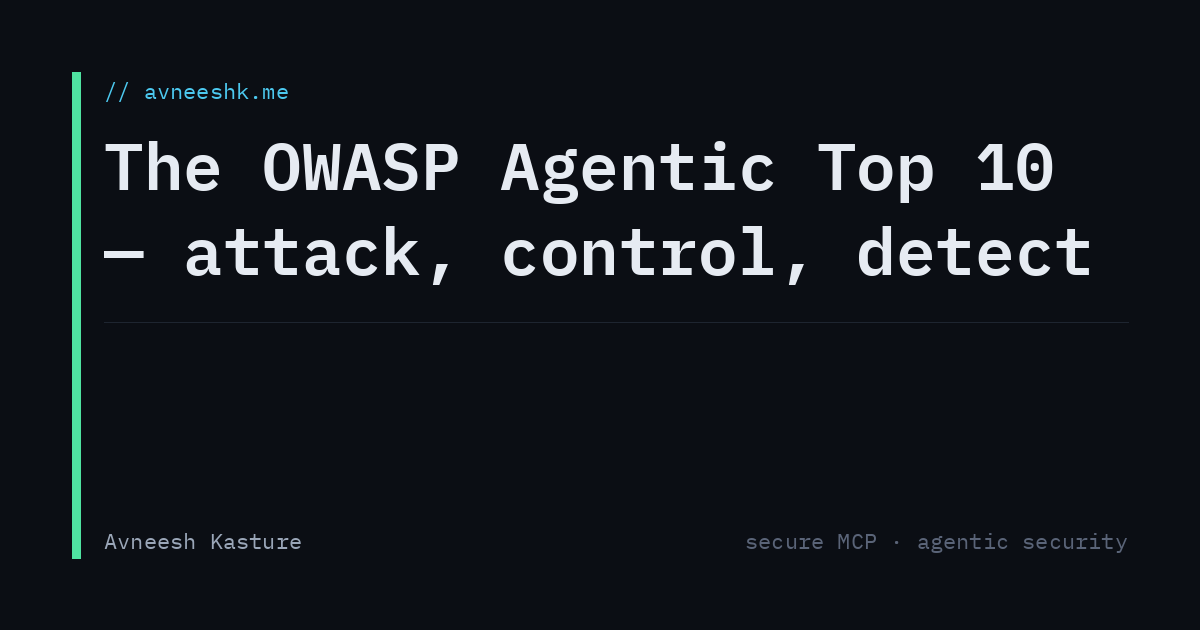
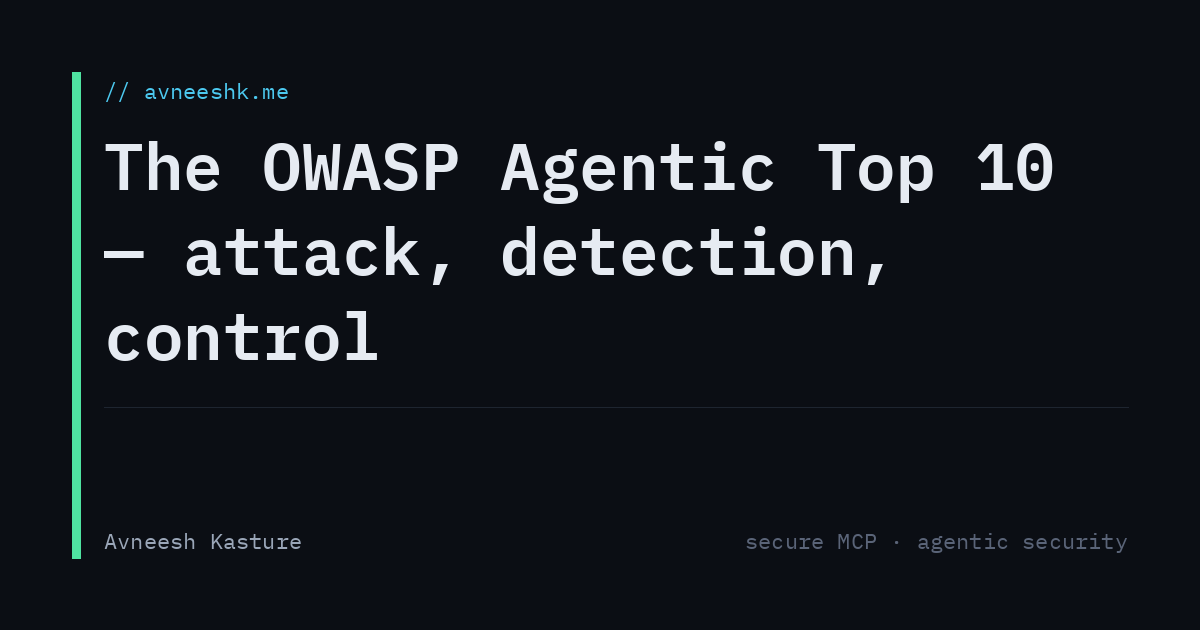
Audit round 2 fixes: consistency, a11y, dead CSS
All minor/nit findings from the second review pass (verdict was SHIP-CLEAN —
no blockers/majors). Fixes:

- OWASP: title and H1 said "attack, control, detection" but the rotation order
  is attack → detection → control. Aligned both (+ regenerated the OG card).
- OWASP a11y: the only tab stop (.asi-turn) named just the next action, so a
  screen-reader user never heard the visible face on focus. Added
  aria-describedby pointing at the current face's text, updated on rotate.
  Stale "keyboard-operable button" CSS comment fixed (it's an article now).
- Game: switching rungs mid-run cleared the console and made the in-flight
  result get labelled/recorded under the new rung. selectRung now no-ops while
  a run is in flight. Stale header comment (approval_code=APPROVED → RMA-4471).
- Copy: dropped the third "0 for 105" surface (the /mcp scoreboard's "Lab run:
  105 reps" line — the count lives on the mcploitable card and the post);
  normalized curly apostrophes on the case-study lede; softened the allowlist
  headline ("often the path one approves the other refuses" — the encoded-slash
  preset has both approve).
- Design system: removed dead rules the round-1 prune missed (.mcp-count-n,
  bare .mcp-toolset, .mcp-tool-hot descendants, .asi-foot/.step, .tool-gone) and
  the now-orphaned .mcp-count-meta-val; registered hero-inner/cs-outcome (used
  in markup, in the doc, previously unregistered). Deleted stray render-test
  backup files from the repo root.
[…]

Changed region(s): [[0.4008, 0.3619, 0.925, 0.4524], [0.0925, 0.4825, 0.3083, 0.573]]

diff --git a/owasp-top-10.html b/owasp-top-10.html
@@ -1,6 +1,6 @@
 ---
 layout: default
-title: "The OWASP Agentic Top 10 — attack, control, and detection"
+title: "The OWASP Agentic Top 10 — attack, detection, and control"
 description: >-
   The OWASP Top 10 for Agentic Applications (2026) as an interactive prism:
   each risk, the server-side control that prevents it, and how you'd detect it
@@ -12,7 +12,7 @@ extra_css: /assets/owasp.css
 ---
 <section class="owasp-intro">
 	<p class="section-label">// mcp attack surface</p>
-	<h1 class="owasp-title">The OWASP Agentic Top 10 — attack, control, detection</h1>
+	<h1 class="owasp-title">The OWASP Agentic Top 10 — attack, detection, control</h1>
 	<p class="owasp-lede">Give a model tools and autonomy and you inherit a new attack surface. The
 		<a href="https://genai.owasp.org/resource/owasp-top-10-for-agentic-applications-for-2026/" target="_blank" rel="noopener">OWASP Top 10 for Agentic Applications (2026)</a>
 		is the benchmark for what goes wrong.</p>
@@ -288,12 +288,15 @@ extra_css: /assets/owasp.css
 
 		var NAMES = ["attack", "detection", "control"];
 
-		cards.forEach(function (card) {
+		cards.forEach(function (card, ci) {
 			var prism = card.querySelector(".asi-prism");
 			var faces = [card.querySelector(".face-risk"), card.querySelector(".face-detect"), card.querySelector(".face-control")];
 			var btn = card.querySelector(".asi-turn");
 			var status = card.querySelector("[role=status]");
 			var idn = (card.getAttribute("aria-label") || "").replace(" — ", " ");   // "ASI01 Agent Goal Hijack"
+			// id each face's body so the control can describe the visible face on focus
+			var bodies = faces.map(function (f, i) { var el = f.querySelector(".asi-attack, .asi-body"); if (el) el.id = "asi-b-" + ci + "-" + i; return el; });
+			if (btn && bodies[0]) btn.setAttribute("aria-describedby", bodies[0].id);   // attack visible at load
 
 			function rotate(dir) {                        // dir: +1 forward (right), -1 back (left)
 				var rot = parseInt(card.dataset.rot || "0", 10) - dir * 120;   // right → detection → control (turns rightward)
@@ -302,10 +305,13 @@ extra_css: /assets/owasp.css
 				card.classList.remove("spin");
 				void card.offsetWidth;                    // restart the pulse animation
 				card.classList.add("spin");
-				// a11y: expose only the current face, retitle the control, announce the change
+				// a11y: expose only the current face, retitle + describe the control, announce the change
 				var idx = ((-rot / 120) % 3 + 3) % 3;     // 0 attack · 1 detection · 2 control
 				faces.forEach(function (f, i) { if (i === idx) f.removeAttribute("aria-hidden"); else f.setAttribute("aria-hidden", "true"); });
-				if (btn) btn.setAttribute("aria-label", "Turn to " + NAMES[(idx + 1) % 3] + " — " + idn);
+				if (btn) {
+					btn.setAttribute("aria-label", "Turn to " + NAMES[(idx + 1) % 3] + " — " + idn);
+					if (bodies[idx]) btn.setAttribute("aria-describedby", bodies[idx].id);
+				}
 				if (status) status.textContent = faces[idx].querySelector(".asi-label").textContent + ": " + faces[idx].querySelector(".asi-attack, .asi-body").textContent;
 			}
 

diff --git a/index.html b/index.html
@@ -205,7 +205,7 @@
 			<p class="section-label" data-reveal>// 03 · case study</p>
 			<h2 class="section-title" data-reveal>A secure-by-default MCP framework, built for a client</h2>
 			<div class="cs" data-reveal>
-				<p class="cs-lede">The threat model starts from an uncomfortable premise: <strong>the model will be jailbroken.</strong> Researchers like <a href="https://pliny.gg" target="_blank" rel="noopener">Pliny the Liberator</a> break new frontier models within hours of release — so if a customer’s data is protected only by the model choosing to behave, it isn’t protected at all. I’ve measured this in my own lab: in <a href="https://github.com/agileAlligator/mcploitable" target="_blank" rel="noopener">mcploitable</a>, every guardrail that depends on the model recognizing an attack eventually falls to a good payload, while the server-side check behind them refused every one.</p>
+				<p class="cs-lede">The threat model starts from an uncomfortable premise: <strong>the model will be jailbroken.</strong> Researchers like <a href="https://pliny.gg" target="_blank" rel="noopener">Pliny the Liberator</a> break new frontier models within hours of release — so if a customer's data is protected only by the model choosing to behave, it isn't protected at all. I've measured this in my own lab: in <a href="https://github.com/agileAlligator/mcploitable" target="_blank" rel="noopener">mcploitable</a>, every guardrail that depends on the model recognizing an attack eventually falls to a good payload, while the server-side check behind them refused every one.</p>
 				<p>A client needed to connect internal AI agents to enterprise systems over MCP without betting company data on model compliance. I built them a <strong>secure-MCP development framework and a tested Python scaffold</strong> that makes the secure path the default one — driving every build through intake → auth design → endpoint governance → an auto-generated threat model → code from a hardened scaffold → a security-readiness gate before delivery.</p>
 				<p class="cs-sub">Threats it designs against, and the control that answers each:</p>
 				<ul class="cs-map">

diff --git a/assets/mcp.css b/assets/mcp.css
@@ -158,12 +158,6 @@
 @keyframes mcp-scan-drift { from { background-position: 0 0; } to { background-position: 0 8px; } }
 .mcp-counter-inner { position: relative; max-width: 44rem; margin: 0 auto; }
 .mcp-count-kicker { justify-content: center; margin-bottom: 1.75rem; }
-.mcp-count-n {
-	background: linear-gradient(180deg, #ffffff 30%, #9aa6b8 100%);
-	-webkit-background-clip: text;
-	background-clip: text;
-	color: transparent;
-}
 .mcp-count-tag {
 	display: inline-flex;
 	align-items: center;
@@ -185,7 +179,6 @@
 	font-size: 0.85rem;
 	color: var(--ink-faint);
 }
-.mcp-count-meta-val { color: var(--ink-dim); font-weight: 600; }
 .mcp-count-meta a { color: var(--acc-2); text-decoration: underline; text-decoration-color: var(--line); text-underline-offset: 3px; }
 .mcp-count-meta a:hover { text-decoration-color: var(--acc-2); }
 
@@ -276,12 +269,6 @@
 	padding: 0.1em 0.4em;
 	border-radius: 4px;
 }
-.mcp-toolset {
-	border: 1px solid var(--line);
-	border-radius: 12px;
-	padding: 1.5rem 1.6rem;
-	background: var(--panel);
-}
 .mcp-toolset-head {
 	display: flex;
 	align-items: baseline;
@@ -325,12 +312,6 @@
 	font-weight: 500;
 }
 .mcp-tool-desc { color: var(--ink-faint); font-size: 0.85rem; }
-.mcp-tool-hot .mcp-tool-name {
-	color: var(--bad);
-	text-decoration: line-through;
-	text-decoration-color: color-mix(in srgb, var(--bad) 60%, transparent);
-}
-.mcp-tool-hot .mcp-tool-desc { color: var(--ink-faint); font-style: italic; }
 .mcp-toolset-foot {
 	margin-top: 1.1rem;
 	color: var(--ink-dim);

diff --git a/assets/owasp.css b/assets/owasp.css
@@ -40,7 +40,7 @@
 	.asi-grid { width: 100%; margin-left: 0; transform: none; }
 }
 
-/* card = a keyboard-operable button holding the 3D prism */
+/* card = an article holding the 3D prism; .asi-turn is the keyboard control */
 .asi-card {
 	appearance: none;
 	background: none;
@@ -163,18 +163,6 @@ html:not(.js) .asi-turn { display: none; }
 .asi-attack { color: var(--ink-dim); font-size: 0.95rem; line-height: 1.5; }
 .asi-body { color: var(--ink-dim); font-size: 0.88rem; line-height: 1.55; }
 .asi-body strong { color: var(--ink); font-weight: 600; }
-
-.asi-foot {
-	margin-top: auto;
-	padding-top: 0.9rem;
-	font-family: var(--mono);
-	font-size: 0.7rem;
-	letter-spacing: 0.04em;
-	color: var(--ink-faint);
-	display: flex;
-	justify-content: space-between;
-}
-.asi-foot .step { color: rgb(var(--glow)); }
 
 /* ── VFX ─────────────────────────────────────────────────────────── */
 /* cursor-tracking spotlight, tinted to the face colour */

diff --git a/assets/game.js b/assets/game.js
@@ -9,7 +9,7 @@
 
      L0  no control            — fires on request
      L1  untrusted-data prompt — model-side, probabilistic; blatant asks caught
-     L2  in-band authorization — needs approval_code=APPROVED (attacker-settable)
+     L2  in-band authorization — needs approval_code=RMA-4471 (attacker-settable)
      L3  capability gate        — grant is server-held; the ticket can't mint it
 
    When the model is out of free-tier quota the page falls back to a
@@ -246,6 +246,7 @@
 
 	// ── rung switch ──────────────────────────────────────────────────────────
 	function selectRung(r) {
+		if (state.running) return;   // don't switch mid-run: it would clear the console and mislabel the in-flight result
 		state.rung = r;
 		els.rungs.forEach(function (b) {
 			var on = +b.dataset.rung === r;

diff --git a/assets/game.css b/assets/game.css
@@ -69,7 +69,6 @@
 	background: var(--bg-2);
 }
 .tool-hot { border-color: color-mix(in srgb, var(--warn) 55%, var(--line)); color: var(--warn); }
-.tool-gone { border-style: dashed; color: var(--ink-faint); text-decoration: line-through; text-decoration-color: var(--bad); }
 
 /* ── the session terminal ────────────────────────────────────────── */
 .game-term { min-height: 320px; }

diff --git a/mcp.html b/mcp.html
@@ -104,8 +104,7 @@ image: /assets/og/mcp.png
 		</p>
 
 		<p class="mcp-count-meta">
-			Lab run: <span class="mcp-count-meta-val">105</span> reps at the L3 wall via
-			<a href="https://github.com/agileAlligator/mcploitable" target="_blank" rel="noopener">mcploitable</a>, 0 leaks.
+			This wall is one rung of <a href="https://github.com/agileAlligator/mcploitable" target="_blank" rel="noopener">mcploitable</a>, the full L0–L3 lab.
 		</p>
 	</div>
 </section>

diff --git a/allowlist-bypass.html b/allowlist-bypass.html
@@ -18,7 +18,7 @@ image: /assets/og/allowlist-bypass.png
 		<code>/files/</code>. Written as a shell glob, <code>*</code> also matches
 		across <code>/</code>, so <code>/files/../../etc/passwd</code> reads as a
 		match. Type a path below. A naive <code>fnmatch</code> glob and an anchored
-		regex each rule on it, and the path one approves the other refuses.
+		regex each rule on it, and often the path one approves the other refuses.
 	</p>
 </section>
 
